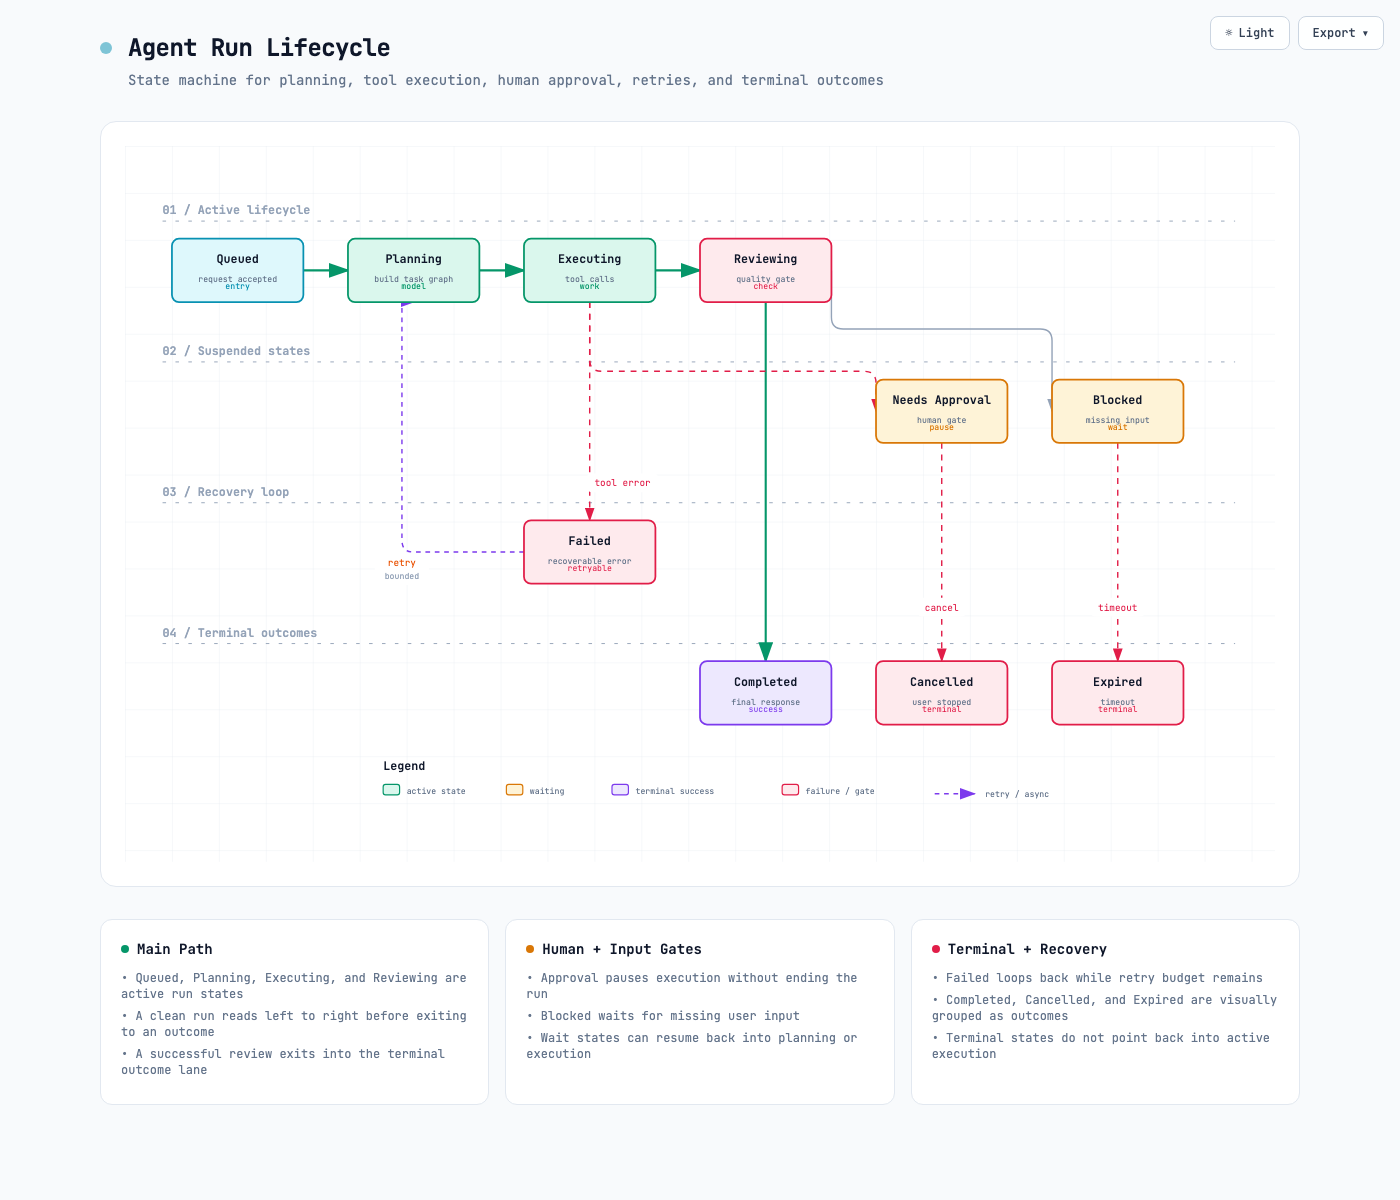
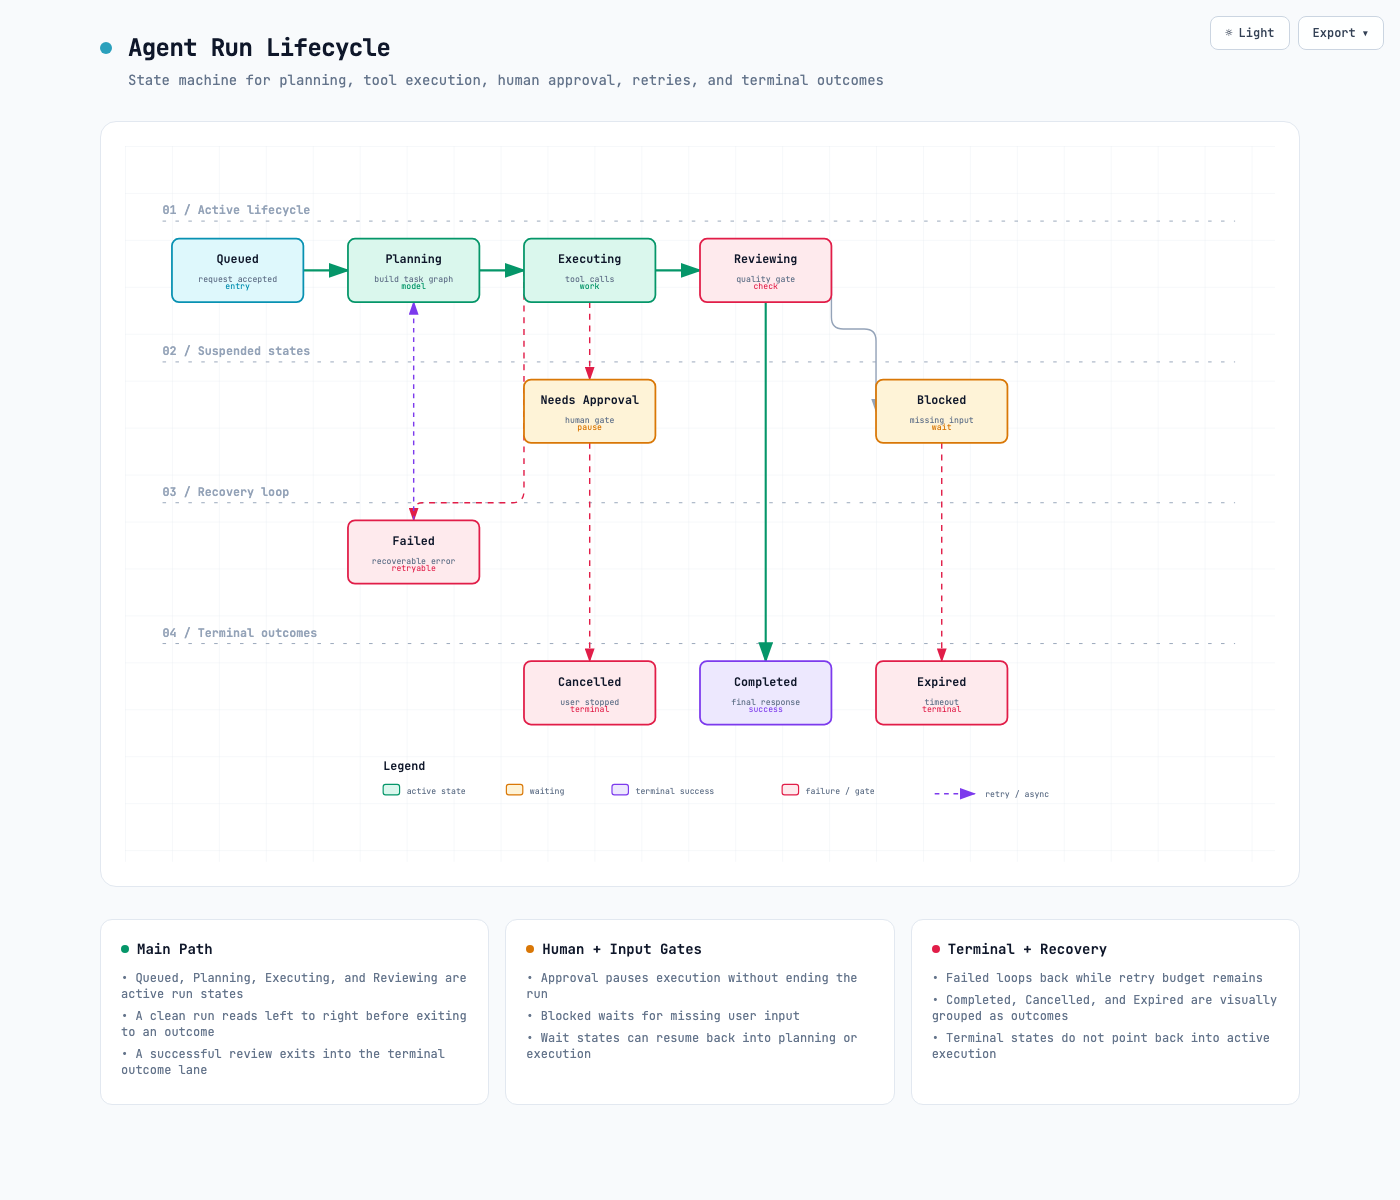
Unclutter lifecycle diagram middle lanes

diff --git a/examples/lifecycle-agent-run.html b/examples/lifecycle-agent-run.html
@@ -489,12 +489,12 @@
         <path d="M 302 106 L 340 106" class="a-emphasis" stroke-width="1.8" marker-end="url(#arrowhead-emphasis)"/>
         <path d="M 452 106 L 490 106" class="a-emphasis" stroke-width="1.8" marker-end="url(#arrowhead-emphasis)"/>
         <path d="M 546 133 L 546 439" class="a-emphasis" stroke-width="1.8" marker-end="url(#arrowhead-emphasis)"/>
-        <path d="M 396 133 L 396 182 Q 396 192 406 192 L 630 192 Q 640 192 640 202 L 640 226" class="a-security" stroke-width="1.2" marker-end="url(#arrowhead-security)"/>
-        <path d="M 602 106 L 602 146 Q 602 156 612 156 L 780 156 Q 790 156 790 166 L 790 226" class="a-default" stroke-width="1.2" marker-end="url(#arrowhead)"/>
-        <path d="M 396 133 L 396 319" class="a-security" stroke-width="1.2" marker-end="url(#arrowhead-security)"/>
-        <path d="M 340 346 L 246 346 Q 236 346 236 336 L 236 138 Q 236 133 241 133 L 246 133" class="a-dashed" stroke-width="1.2" marker-end="url(#arrowhead-dashed)"/>
-        <path d="M 846 253 L 846 439" class="a-security" stroke-width="1.2" marker-end="url(#arrowhead-security)"/>
+        <path d="M 396 133 L 396 199" class="a-security" stroke-width="1.2" marker-end="url(#arrowhead-security)"/>
+        <path d="M 602 106 L 602 146 Q 602 156 612 156 L 630 156 Q 640 156 640 166 L 640 226" class="a-default" stroke-width="1.2" marker-end="url(#arrowhead)"/>
+        <path d="M 340 106 L 340 294 Q 340 304 330 304 L 253.5 304 Q 246 304 246 311.5 L 246 319" class="a-security" stroke-width="1.2" marker-end="url(#arrowhead-security)"/>
+        <path d="M 246 319 L 246 133" class="a-dashed" stroke-width="1.2" marker-end="url(#arrowhead-dashed)"/>
         <path d="M 696 253 L 696 439" class="a-security" stroke-width="1.2" marker-end="url(#arrowhead-security)"/>
+        <path d="M 396 253 L 396 439" class="a-security" stroke-width="1.2" marker-end="url(#arrowhead-security)"/>
 
         <!-- States -->
         <rect x="40" y="79" width="112" height="54" rx="6" class="c-mask"/>
@@ -521,23 +521,29 @@
         <text x="546" y="116" class="t-muted" font-size="7" text-anchor="middle">quality gate</text>
         <text x="546" y="122" class="t-security" font-size="7" text-anchor="middle">check</text>
 
+        <rect x="340" y="199" width="112" height="54" rx="6" class="c-mask"/>
+        <rect x="340" y="199" width="112" height="54" rx="6" class="c-cloud" stroke-width="1.5"/>
+        <text x="396" y="220" class="t-primary" font-size="10" font-weight="600" text-anchor="middle">Needs Approval</text>
+        <text x="396" y="236" class="t-muted" font-size="7" text-anchor="middle">human gate</text>
+        <text x="396" y="242" class="t-cloud" font-size="7" text-anchor="middle">pause</text>
+
         <rect x="640" y="199" width="112" height="54" rx="6" class="c-mask"/>
         <rect x="640" y="199" width="112" height="54" rx="6" class="c-cloud" stroke-width="1.5"/>
-        <text x="696" y="220" class="t-primary" font-size="10" font-weight="600" text-anchor="middle">Needs Approval</text>
-        <text x="696" y="236" class="t-muted" font-size="7" text-anchor="middle">human gate</text>
-        <text x="696" y="242" class="t-cloud" font-size="7" text-anchor="middle">pause</text>
+        <text x="696" y="220" class="t-primary" font-size="10" font-weight="600" text-anchor="middle">Blocked</text>
+        <text x="696" y="236" class="t-muted" font-size="7" text-anchor="middle">missing input</text>
+        <text x="696" y="242" class="t-cloud" font-size="7" text-anchor="middle">wait</text>
 
-        <rect x="790" y="199" width="112" height="54" rx="6" class="c-mask"/>
-        <rect x="790" y="199" width="112" height="54" rx="6" class="c-cloud" stroke-width="1.5"/>
-        <text x="846" y="220" class="t-primary" font-size="10" font-weight="600" text-anchor="middle">Blocked</text>
-        <text x="846" y="236" class="t-muted" font-size="7" text-anchor="middle">missing input</text>
-        <text x="846" y="242" class="t-cloud" font-size="7" text-anchor="middle">wait</text>
+        <rect x="190" y="319" width="112" height="54" rx="6" class="c-mask"/>
+        <rect x="190" y="319" width="112" height="54" rx="6" class="c-security" stroke-width="1.5"/>
+        <text x="246" y="340" class="t-primary" font-size="10" font-weight="600" text-anchor="middle">Failed</text>
+        <text x="246" y="356" class="t-muted" font-size="7" text-anchor="middle">recoverable error</text>
+        <text x="246" y="362" class="t-security" font-size="7" text-anchor="middle">retryable</text>
 
-        <rect x="340" y="319" width="112" height="54" rx="6" class="c-mask"/>
-        <rect x="340" y="319" width="112" height="54" rx="6" class="c-security" stroke-width="1.5"/>
-        <text x="396" y="340" class="t-primary" font-size="10" font-weight="600" text-anchor="middle">Failed</text>
-        <text x="396" y="356" class="t-muted" font-size="7" text-anchor="middle">recoverable error</text>
-        <text x="396" y="362" class="t-security" font-size="7" text-anchor="middle">retryable</text>
+        <rect x="340" y="439" width="112" height="54" rx="6" class="c-mask"/>
+        <rect x="340" y="439" width="112" height="54" rx="6" class="c-security" stroke-width="1.5"/>
+        <text x="396" y="460" class="t-primary" font-size="10" font-weight="600" text-anchor="middle">Cancelled</text>
+        <text x="396" y="476" class="t-muted" font-size="7" text-anchor="middle">user stopped</text>
+        <text x="396" y="482" class="t-security" font-size="7" text-anchor="middle">terminal</text>
 
         <rect x="490" y="439" width="112" height="54" rx="6" class="c-mask"/>
         <rect x="490" y="439" width="112" height="54" rx="6" class="c-database" stroke-width="1.5"/>
@@ -547,15 +553,9 @@
 
         <rect x="640" y="439" width="112" height="54" rx="6" class="c-mask"/>
         <rect x="640" y="439" width="112" height="54" rx="6" class="c-security" stroke-width="1.5"/>
-        <text x="696" y="460" class="t-primary" font-size="10" font-weight="600" text-anchor="middle">Cancelled</text>
-        <text x="696" y="476" class="t-muted" font-size="7" text-anchor="middle">user stopped</text>
+        <text x="696" y="460" class="t-primary" font-size="10" font-weight="600" text-anchor="middle">Expired</text>
+        <text x="696" y="476" class="t-muted" font-size="7" text-anchor="middle">timeout</text>
         <text x="696" y="482" class="t-security" font-size="7" text-anchor="middle">terminal</text>
-
-        <rect x="790" y="439" width="112" height="54" rx="6" class="c-mask"/>
-        <rect x="790" y="439" width="112" height="54" rx="6" class="c-security" stroke-width="1.5"/>
-        <text x="846" y="460" class="t-primary" font-size="10" font-weight="600" text-anchor="middle">Expired</text>
-        <text x="846" y="476" class="t-muted" font-size="7" text-anchor="middle">timeout</text>
-        <text x="846" y="482" class="t-security" font-size="7" text-anchor="middle">terminal</text>
 
         <!-- Transition labels -->
 
@@ -564,15 +564,10 @@
 
 
 
-        <rect x="393.5" y="279" width="61" height="16" rx="4" class="c-mask"/>
-        <text x="424" y="290" class="t-security" font-size="8" text-anchor="middle">tool error</text>
-        <rect x="212.85" y="347" width="46.300000000000004" height="27" rx="4" class="c-mask"/>
-        <text x="236" y="358" class="t-messagebus" font-size="8" text-anchor="middle">retry</text>
-        <text x="236" y="369" class="t-dim" font-size="7" text-anchor="middle">bounded</text>
-        <rect x="822.85" y="385" width="46.300000000000004" height="16" rx="4" class="c-mask"/>
-        <text x="846" y="396" class="t-security" font-size="8" text-anchor="middle">timeout</text>
-        <rect x="675.3" y="385" width="41.400000000000006" height="16" rx="4" class="c-mask"/>
-        <text x="696" y="396" class="t-security" font-size="8" text-anchor="middle">cancel</text>
+
+
+
+
 
         <!-- Legend -->
         <text x="220" y="532" class="t-primary" font-size="10" font-weight="600">Legend</text>
